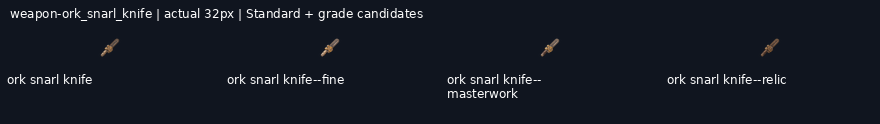
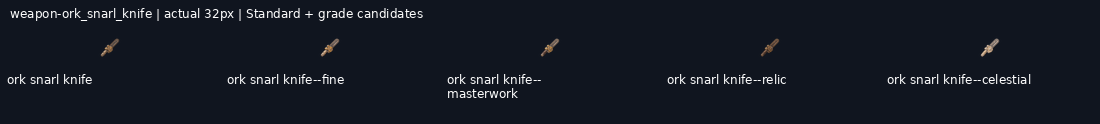
art: draw weapon-ork_snarl_knife--celestial grade candidate

diff --git a/art/_archive/gear/2026-11-19-kept-blade-grades/HANDOFF.md b/art/_archive/gear/2026-11-19-kept-blade-grades/HANDOFF.md
@@ -1,6 +1,6 @@
 # Gear grade candidates
 
-**180/244 grade candidates delivered** on `art/2026-11-19-kept-blade-grades`. Shared mailbox: https://github.com/leonpentastorm/Project-Heaven-Cry/issues/3 . See claim.json for this lane’s current Standards. Released overlapping blades reuse12 peer candidates, with3 local alternatives archived.
+**181/244 grade candidates delivered** on `art/2026-11-19-kept-blade-grades`. Shared mailbox: https://github.com/leonpentastorm/Project-Heaven-Cry/issues/3 . See claim.json for this lane’s current Standards. Released overlapping blades reuse12 peer candidates, with3 local alternatives archived.
 
 Leon requested continuous candidate production; proof approval is not fabricated. All candidates remain review-candidate, production_approved:false, implementation_ready:false, with outline.review_required:true. Exact outline is measured, never asserted unless the masks match. Per-image registration is uniform scaling/translation only, without warp, silhouette masks, filled pixels or code-drawn substitutes. The generated native remains untouched.
 
@@ -10,12 +10,12 @@ Tomorrow: fetch this branch and develop safely, read the latest issue 3 comments
 
 Peer audit: [coordination/peer-audit-2026-11-19.md](coordination/peer-audit-2026-11-19.md). Peer58 masters/232 exports and12 canonical imports are integrated with versioned alpha<8 cleanup; originals are retained. See coordination/peer-import-v2/manifest.json and post-catalog VALIDATION.json (strict margins pass, solid alpha unchanged). Peer quota resets20 November2026 at09:45:39 Bangkok time; this does not establish this session’s quota.
 
-Remaining: weapon-ork_machete--masterwork, weapon-ork_machete--relic, weapon-ork_machete--celestial, weapon-war_axe--fine, weapon-war_axe--masterwork, weapon-war_axe--relic, weapon-war_axe--celestial, weapon-parlour_pistol--fine, weapon-parlour_pistol--masterwork, weapon-parlour_pistol--relic, weapon-parlour_pistol--celestial, weapon-lever_carbine--fine, weapon-lever_carbine--masterwork, weapon-lever_carbine--relic, weapon-lever_carbine--celestial, weapon-sawn_off--fine, weapon-sawn_off--masterwork, weapon-sawn_off--relic, weapon-sawn_off--celestial, weapon-coach_gun--fine, weapon-coach_gun--masterwork, weapon-coach_gun--relic, weapon-coach_gun--celestial, weapon-legion_bullpup--fine, weapon-legion_bullpup--masterwork, weapon-legion_bullpup--relic, weapon-legion_bullpup--celestial, weapon-whisper_smg--fine, weapon-whisper_smg--masterwork, weapon-whisper_smg--relic, weapon-whisper_smg--celestial, weapon-war_pick--fine, weapon-war_pick--masterwork, weapon-war_pick--relic, weapon-war_pick--celestial, weapon-war_hammer--fine, weapon-war_hammer--masterwork, weapon-war_hammer--relic, weapon-war_hammer--celestial, weapon-short_bow--fine, weapon-short_bow--masterwork, weapon-short_bow--relic, weapon-short_bow--celestial, weapon-ork_snarl_knife--celestial, weapon-ork_wreck_saw--fine, weapon-ork_wreck_saw--masterwork, weapon-ork_wreck_saw--relic, weapon-ork_wreck_saw--celestial, weapon-hellraiser_piston_knuckles--fine, weapon-hellraiser_piston_knuckles--masterwork, weapon-hellraiser_piston_knuckles--relic, weapon-hellraiser_piston_knuckles--celestial, weapon-hellraiser_door_knocker--fine, weapon-hellraiser_door_knocker--masterwork, weapon-hellraiser_door_knocker--relic, weapon-hellraiser_door_knocker--celestial, weapon-throwing_darts--fine, weapon-throwing_darts--masterwork, weapon-throwing_darts--relic, weapon-throwing_darts--celestial, weapon-throwing_javelins--fine, weapon-throwing_javelins--masterwork, weapon-throwing_javelins--relic, weapon-throwing_javelins--celestial.
+Remaining: weapon-ork_machete--masterwork, weapon-ork_machete--relic, weapon-ork_machete--celestial, weapon-war_axe--fine, weapon-war_axe--masterwork, weapon-war_axe--relic, weapon-war_axe--celestial, weapon-parlour_pistol--fine, weapon-parlour_pistol--masterwork, weapon-parlour_pistol--relic, weapon-parlour_pistol--celestial, weapon-lever_carbine--fine, weapon-lever_carbine--masterwork, weapon-lever_carbine--relic, weapon-lever_carbine--celestial, weapon-sawn_off--fine, weapon-sawn_off--masterwork, weapon-sawn_off--relic, weapon-sawn_off--celestial, weapon-coach_gun--fine, weapon-coach_gun--masterwork, weapon-coach_gun--relic, weapon-coach_gun--celestial, weapon-legion_bullpup--fine, weapon-legion_bullpup--masterwork, weapon-legion_bullpup--relic, weapon-legion_bullpup--celestial, weapon-whisper_smg--fine, weapon-whisper_smg--masterwork, weapon-whisper_smg--relic, weapon-whisper_smg--celestial, weapon-war_pick--fine, weapon-war_pick--masterwork, weapon-war_pick--relic, weapon-war_pick--celestial, weapon-war_hammer--fine, weapon-war_hammer--masterwork, weapon-war_hammer--relic, weapon-war_hammer--celestial, weapon-short_bow--fine, weapon-short_bow--masterwork, weapon-short_bow--relic, weapon-short_bow--celestial, weapon-ork_wreck_saw--fine, weapon-ork_wreck_saw--masterwork, weapon-ork_wreck_saw--relic, weapon-ork_wreck_saw--celestial, weapon-hellraiser_piston_knuckles--fine, weapon-hellraiser_piston_knuckles--masterwork, weapon-hellraiser_piston_knuckles--relic, weapon-hellraiser_piston_knuckles--celestial, weapon-hellraiser_door_knocker--fine, weapon-hellraiser_door_knocker--masterwork, weapon-hellraiser_door_knocker--relic, weapon-hellraiser_door_knocker--celestial, weapon-throwing_darts--fine, weapon-throwing_darts--masterwork, weapon-throwing_darts--relic, weapon-throwing_darts--celestial, weapon-throwing_javelins--fine, weapon-throwing_javelins--masterwork, weapon-throwing_javelins--relic, weapon-throwing_javelins--celestial.
 
 Service-rejected requests (do not repeatedly resubmit): weapon-coach_gun--fine, weapon-legion_bullpup--fine, weapon-lever_carbine--fine, weapon-ork_machete--masterwork, weapon-parlour_pistol--fine, weapon-sawn_off--fine, weapon-short_bow--fine, weapon-war_axe--fine, weapon-war_hammer--fine, weapon-war_pick--fine, weapon-whisper_smg--fine.
 
 Waiting on rejected prerequisites: weapon-coach_gun--celestial, weapon-coach_gun--masterwork, weapon-coach_gun--relic, weapon-legion_bullpup--celestial, weapon-legion_bullpup--masterwork, weapon-legion_bullpup--relic, weapon-lever_carbine--celestial, weapon-lever_carbine--masterwork, weapon-lever_carbine--relic, weapon-ork_machete--celestial, weapon-ork_machete--relic, weapon-parlour_pistol--celestial, weapon-parlour_pistol--masterwork, weapon-parlour_pistol--relic, weapon-sawn_off--celestial, weapon-sawn_off--masterwork, weapon-sawn_off--relic, weapon-short_bow--celestial, weapon-short_bow--masterwork, weapon-short_bow--relic, weapon-war_axe--celestial, weapon-war_axe--masterwork, weapon-war_axe--relic, weapon-war_hammer--celestial, weapon-war_hammer--masterwork, weapon-war_hammer--relic, weapon-war_pick--celestial, weapon-war_pick--masterwork, weapon-war_pick--relic, weapon-whisper_smg--celestial, weapon-whisper_smg--masterwork, weapon-whisper_smg--relic.
 
-Ready independent next steps, in queue order: weapon-ork_snarl_knife--celestial, weapon-ork_wreck_saw--fine, weapon-hellraiser_piston_knuckles--fine, weapon-hellraiser_door_knocker--fine, weapon-throwing_darts--fine, weapon-throwing_javelins--fine. Other pending grades follow their preceding grade.
+Ready independent next steps, in queue order: weapon-ork_wreck_saw--fine, weapon-hellraiser_piston_knuckles--fine, weapon-hellraiser_door_knocker--fine, weapon-throwing_darts--fine, weapon-throwing_javelins--fine. Other pending grades follow their preceding grade.
 
 Runtime handoff: implementation_ready:false records review status but does not gate the web asset builder. The builder emits grade asset keys; the current UI gear resolver still needs grade-aware selection. Do not claim that runtime grade selection is implemented by these art deliveries.
